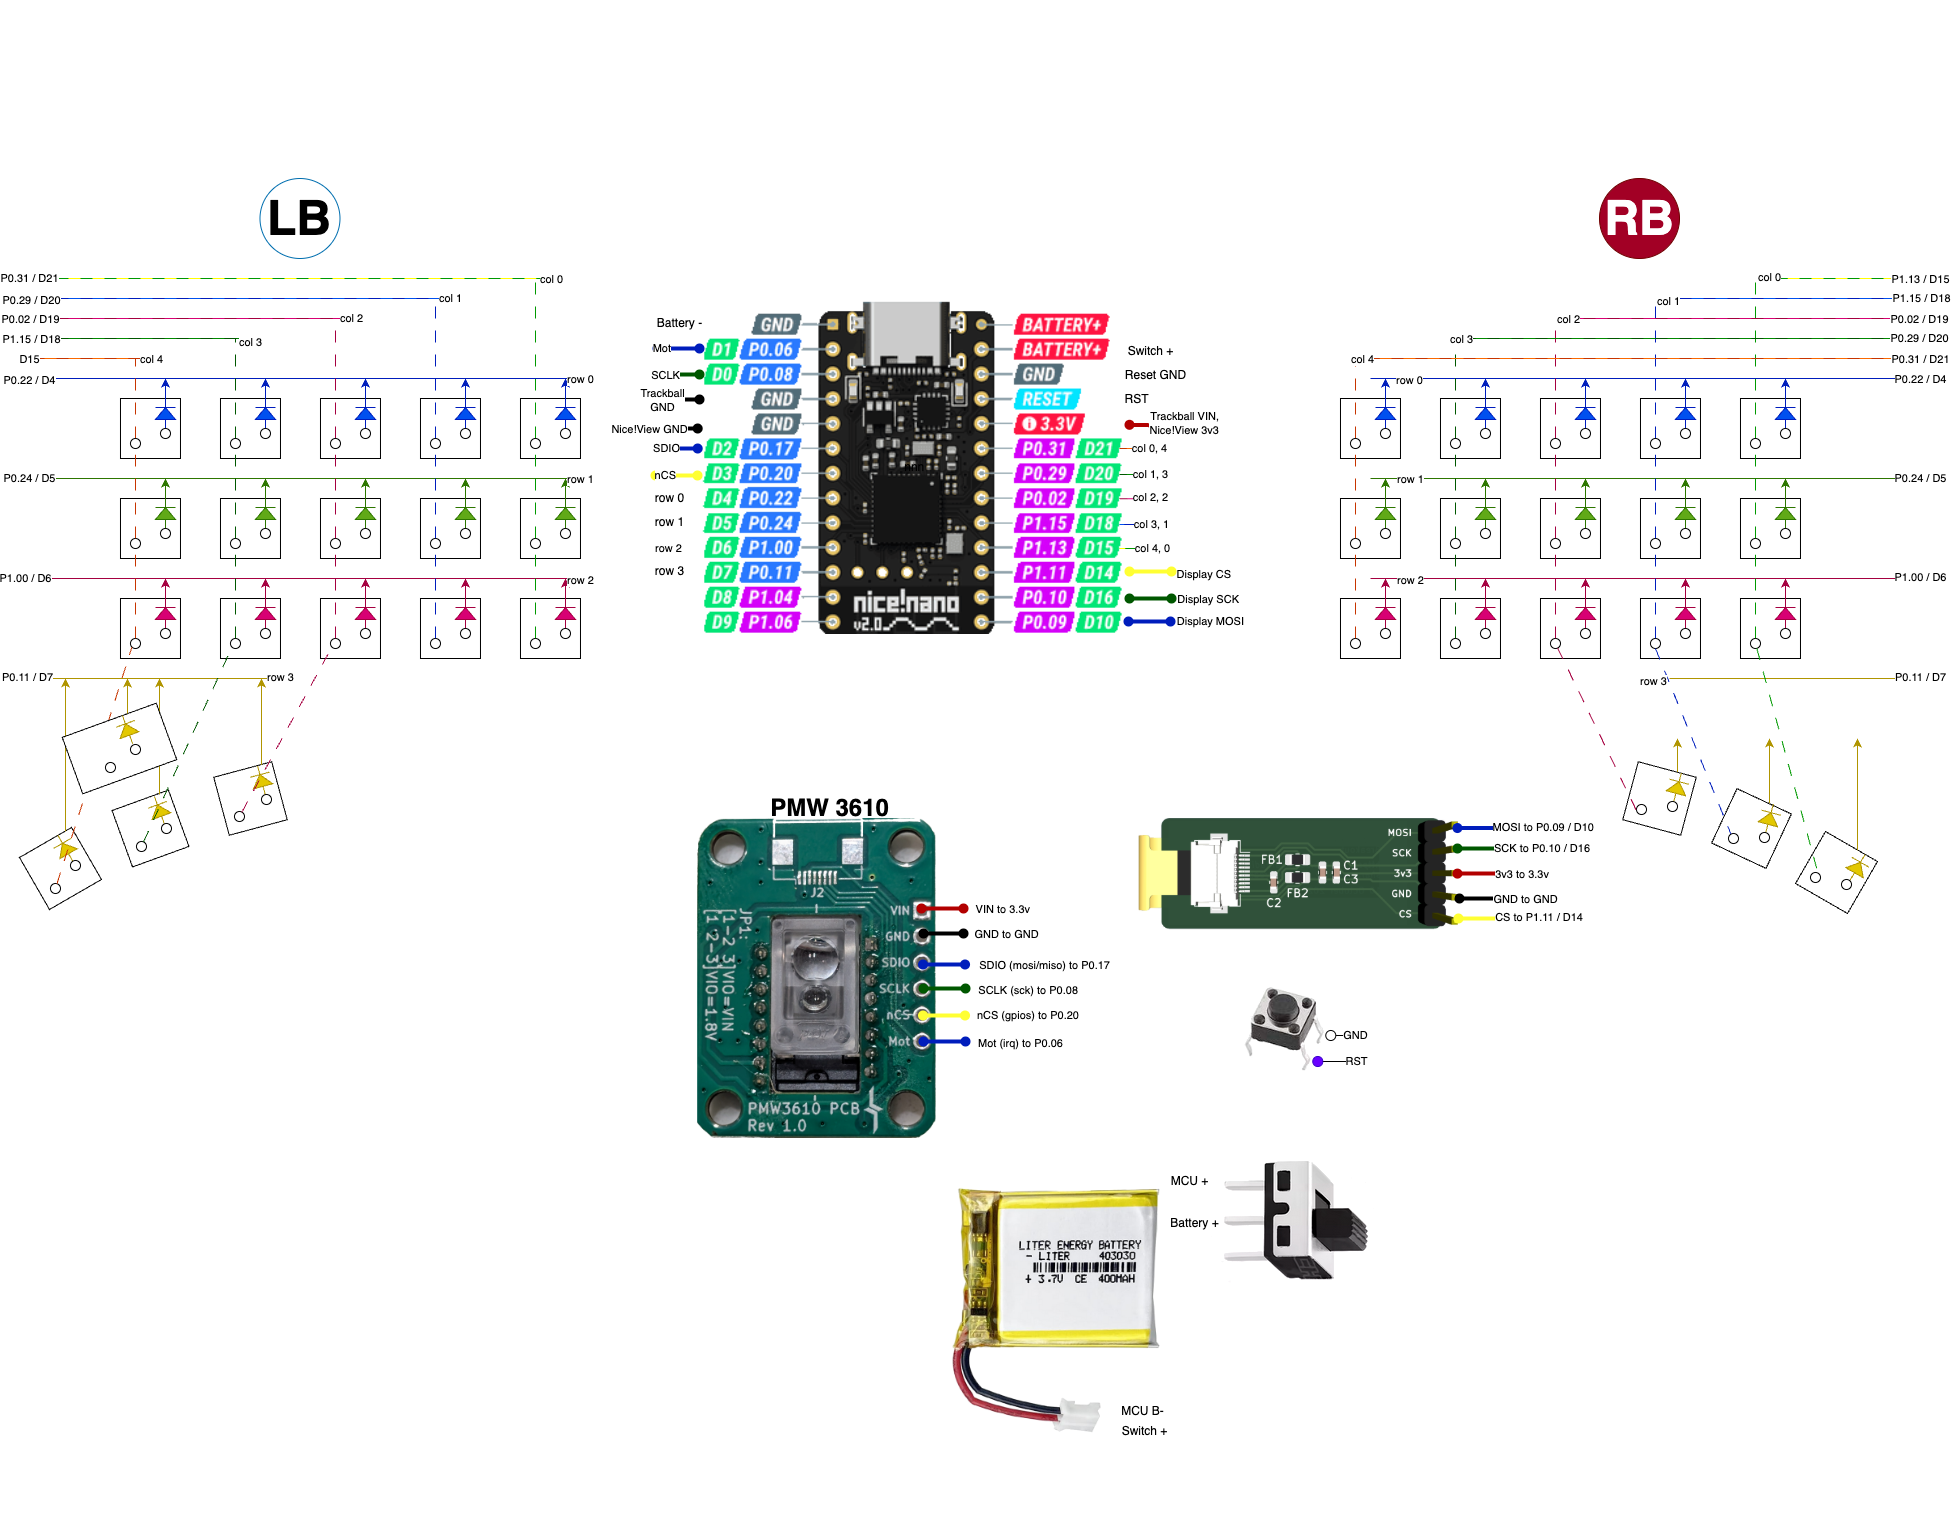
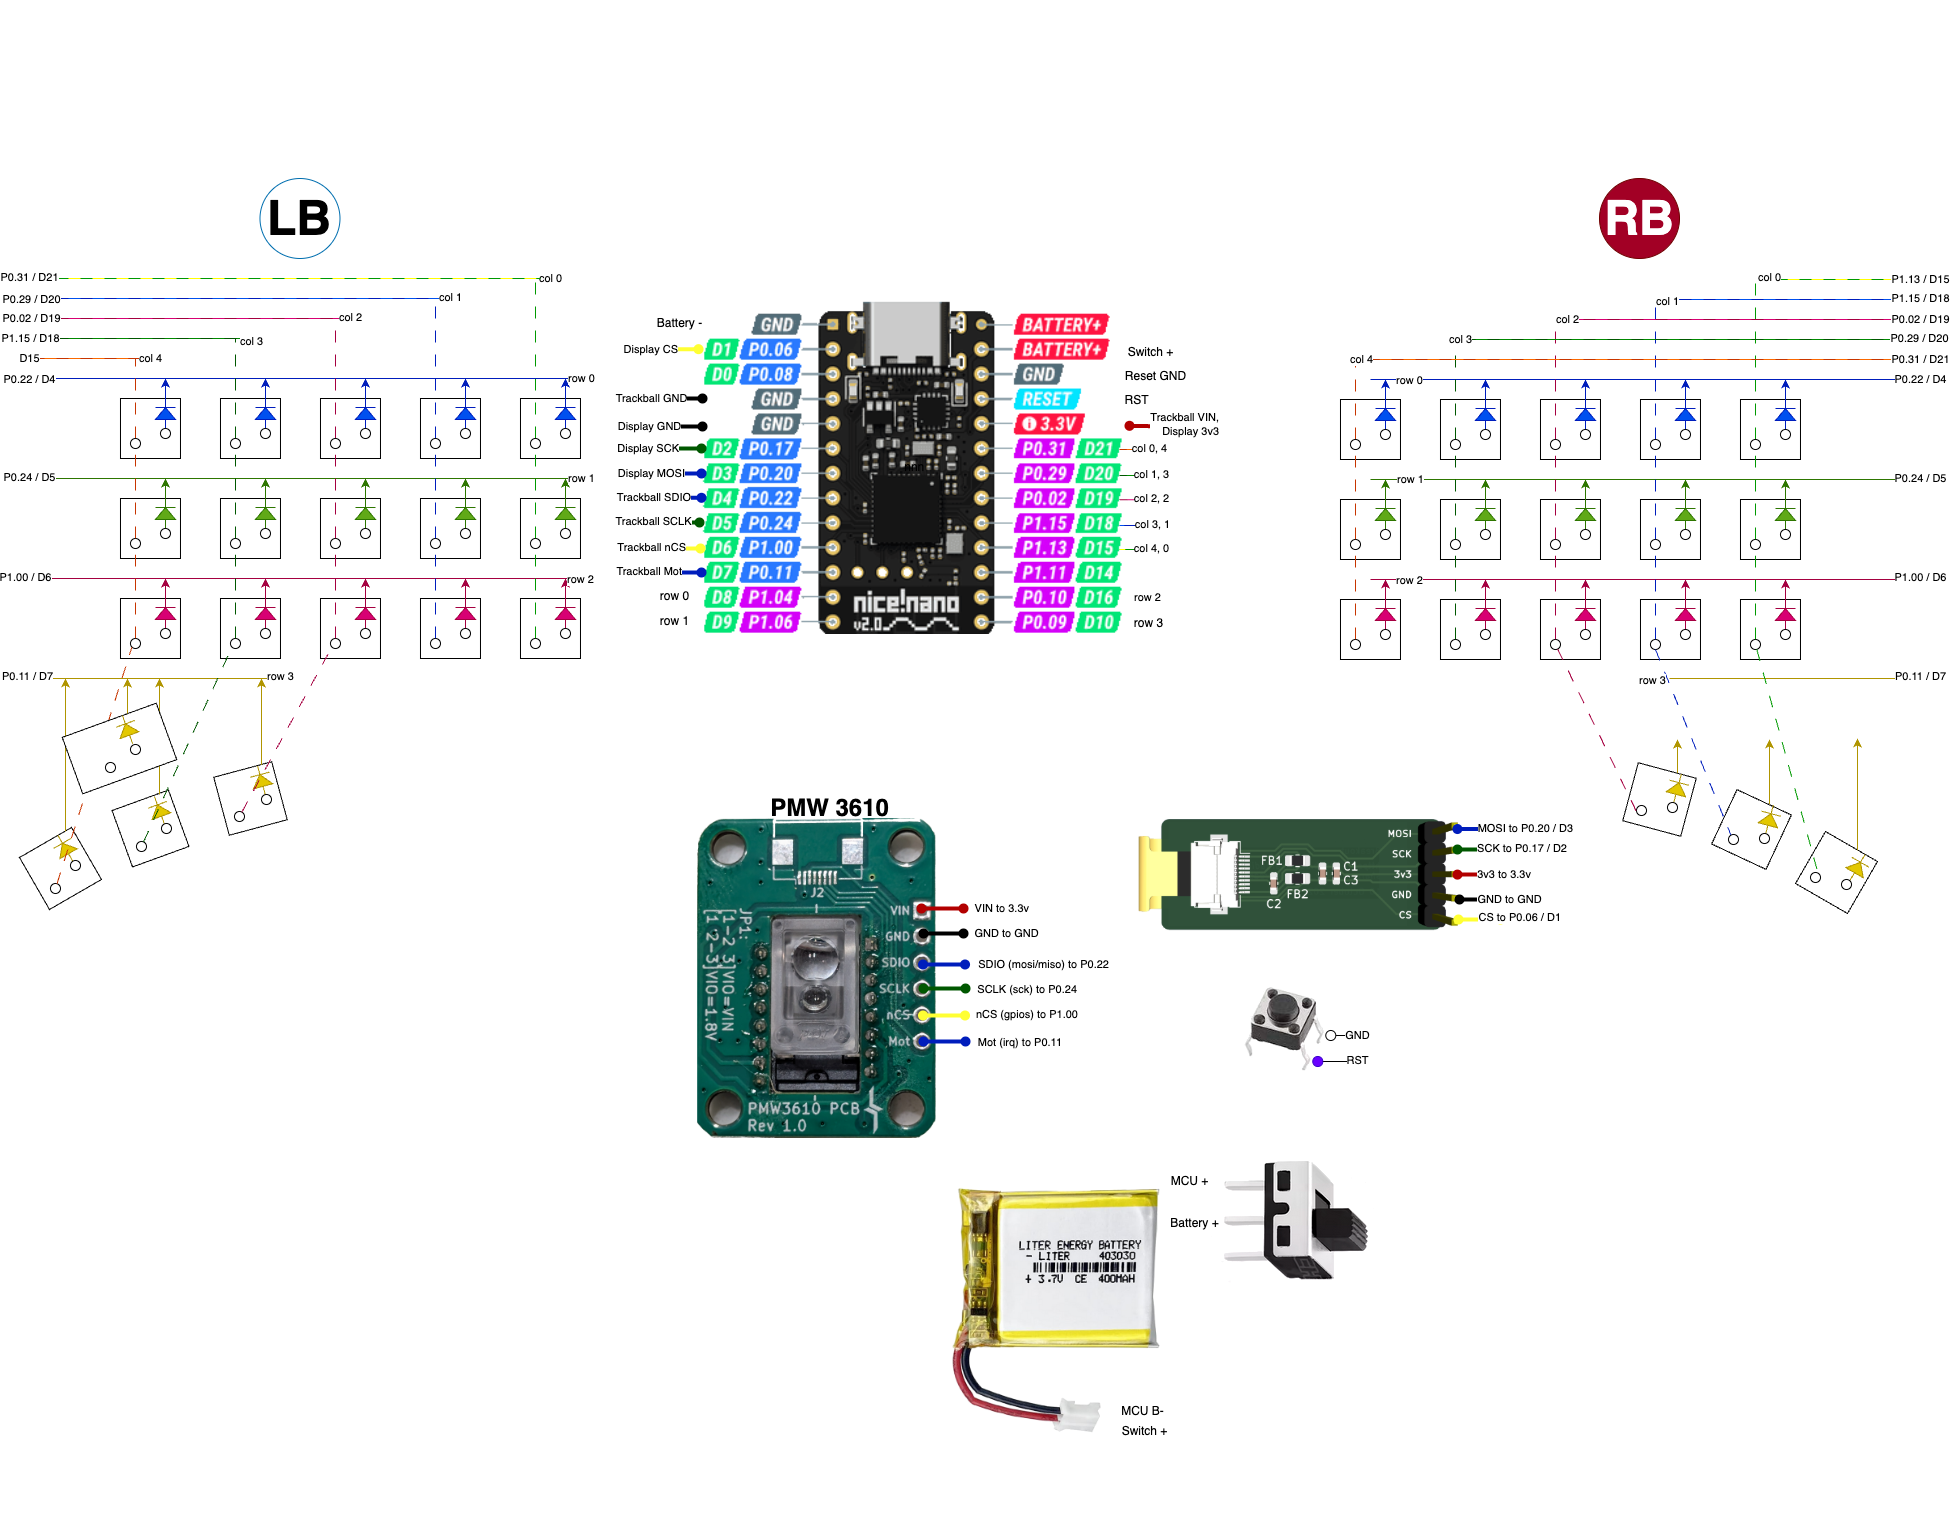
Adjust pins to accomodate display default pinout

diff --git a/README.md b/README.md
@@ -7,8 +7,8 @@ Configuration for Pentangeli, a 38 key hand-wired keyboard with integrated track
 
 - [x] Remove encoder support
 - [x] Adapt pinout for cols and rows
+- [x] Adjust key matrix for 38 keys
 - [x] Add [sensor driver](https://github.com/inorichi/zmk-pmw3610-driver) and [configure pointing device](https://zmk.dev/docs/development/hardware-integration/pointing)
-- [ ] Adjust key matrix for 38 keys
 - [ ] Add nice!view adapter and enable
 - [ ] Update keymap to the same as QMK, but with BT keys on macro layer
 - [ ] Potentially add build guide
@@ -23,10 +23,12 @@ Configuration for Pentangeli, a 38 key hand-wired keyboard with integrated track
 - [zmk-pmw3610-driver](https://github.com/inorichi/zmk-pmw3610-driver)
 
 
+### pinout for display and sensor
+
 Default Nice!View pinout:
 ```
-CS = D1 / P0.06
-SCL = D2 / 0.17
+CS   = D1 / P0.06
+SCL  = D2 / 0.17
 MOSI = D3 / P0.20
 ```
 
@@ -35,8 +37,27 @@ Custom pinout:
 CS   = D14 / P1.11
 SCL  = D16 / P0.10
 MOSI = D10 / P0.09
+```
+
+Best guess pmw3610 pinout:
+```
+SDIO (moso/miso) = P0.17
+SCLK (sck)       = P0.08
+nCS (gpios)      = P0.20
+Mot (irq)        = P0.06
 
 ```
+
+
+Moved pmw3610 pinout to accomodate display:
+```
+
+SDIO (moso/miso) = P0.22 / D4
+SCLK (sck)       = P0.24 / D5
+nCS (gpios)      = P1.00 / D6
+Mot (irq)        = P0.11 / D7
+```
+
 
 ## Wiring diagram
 
